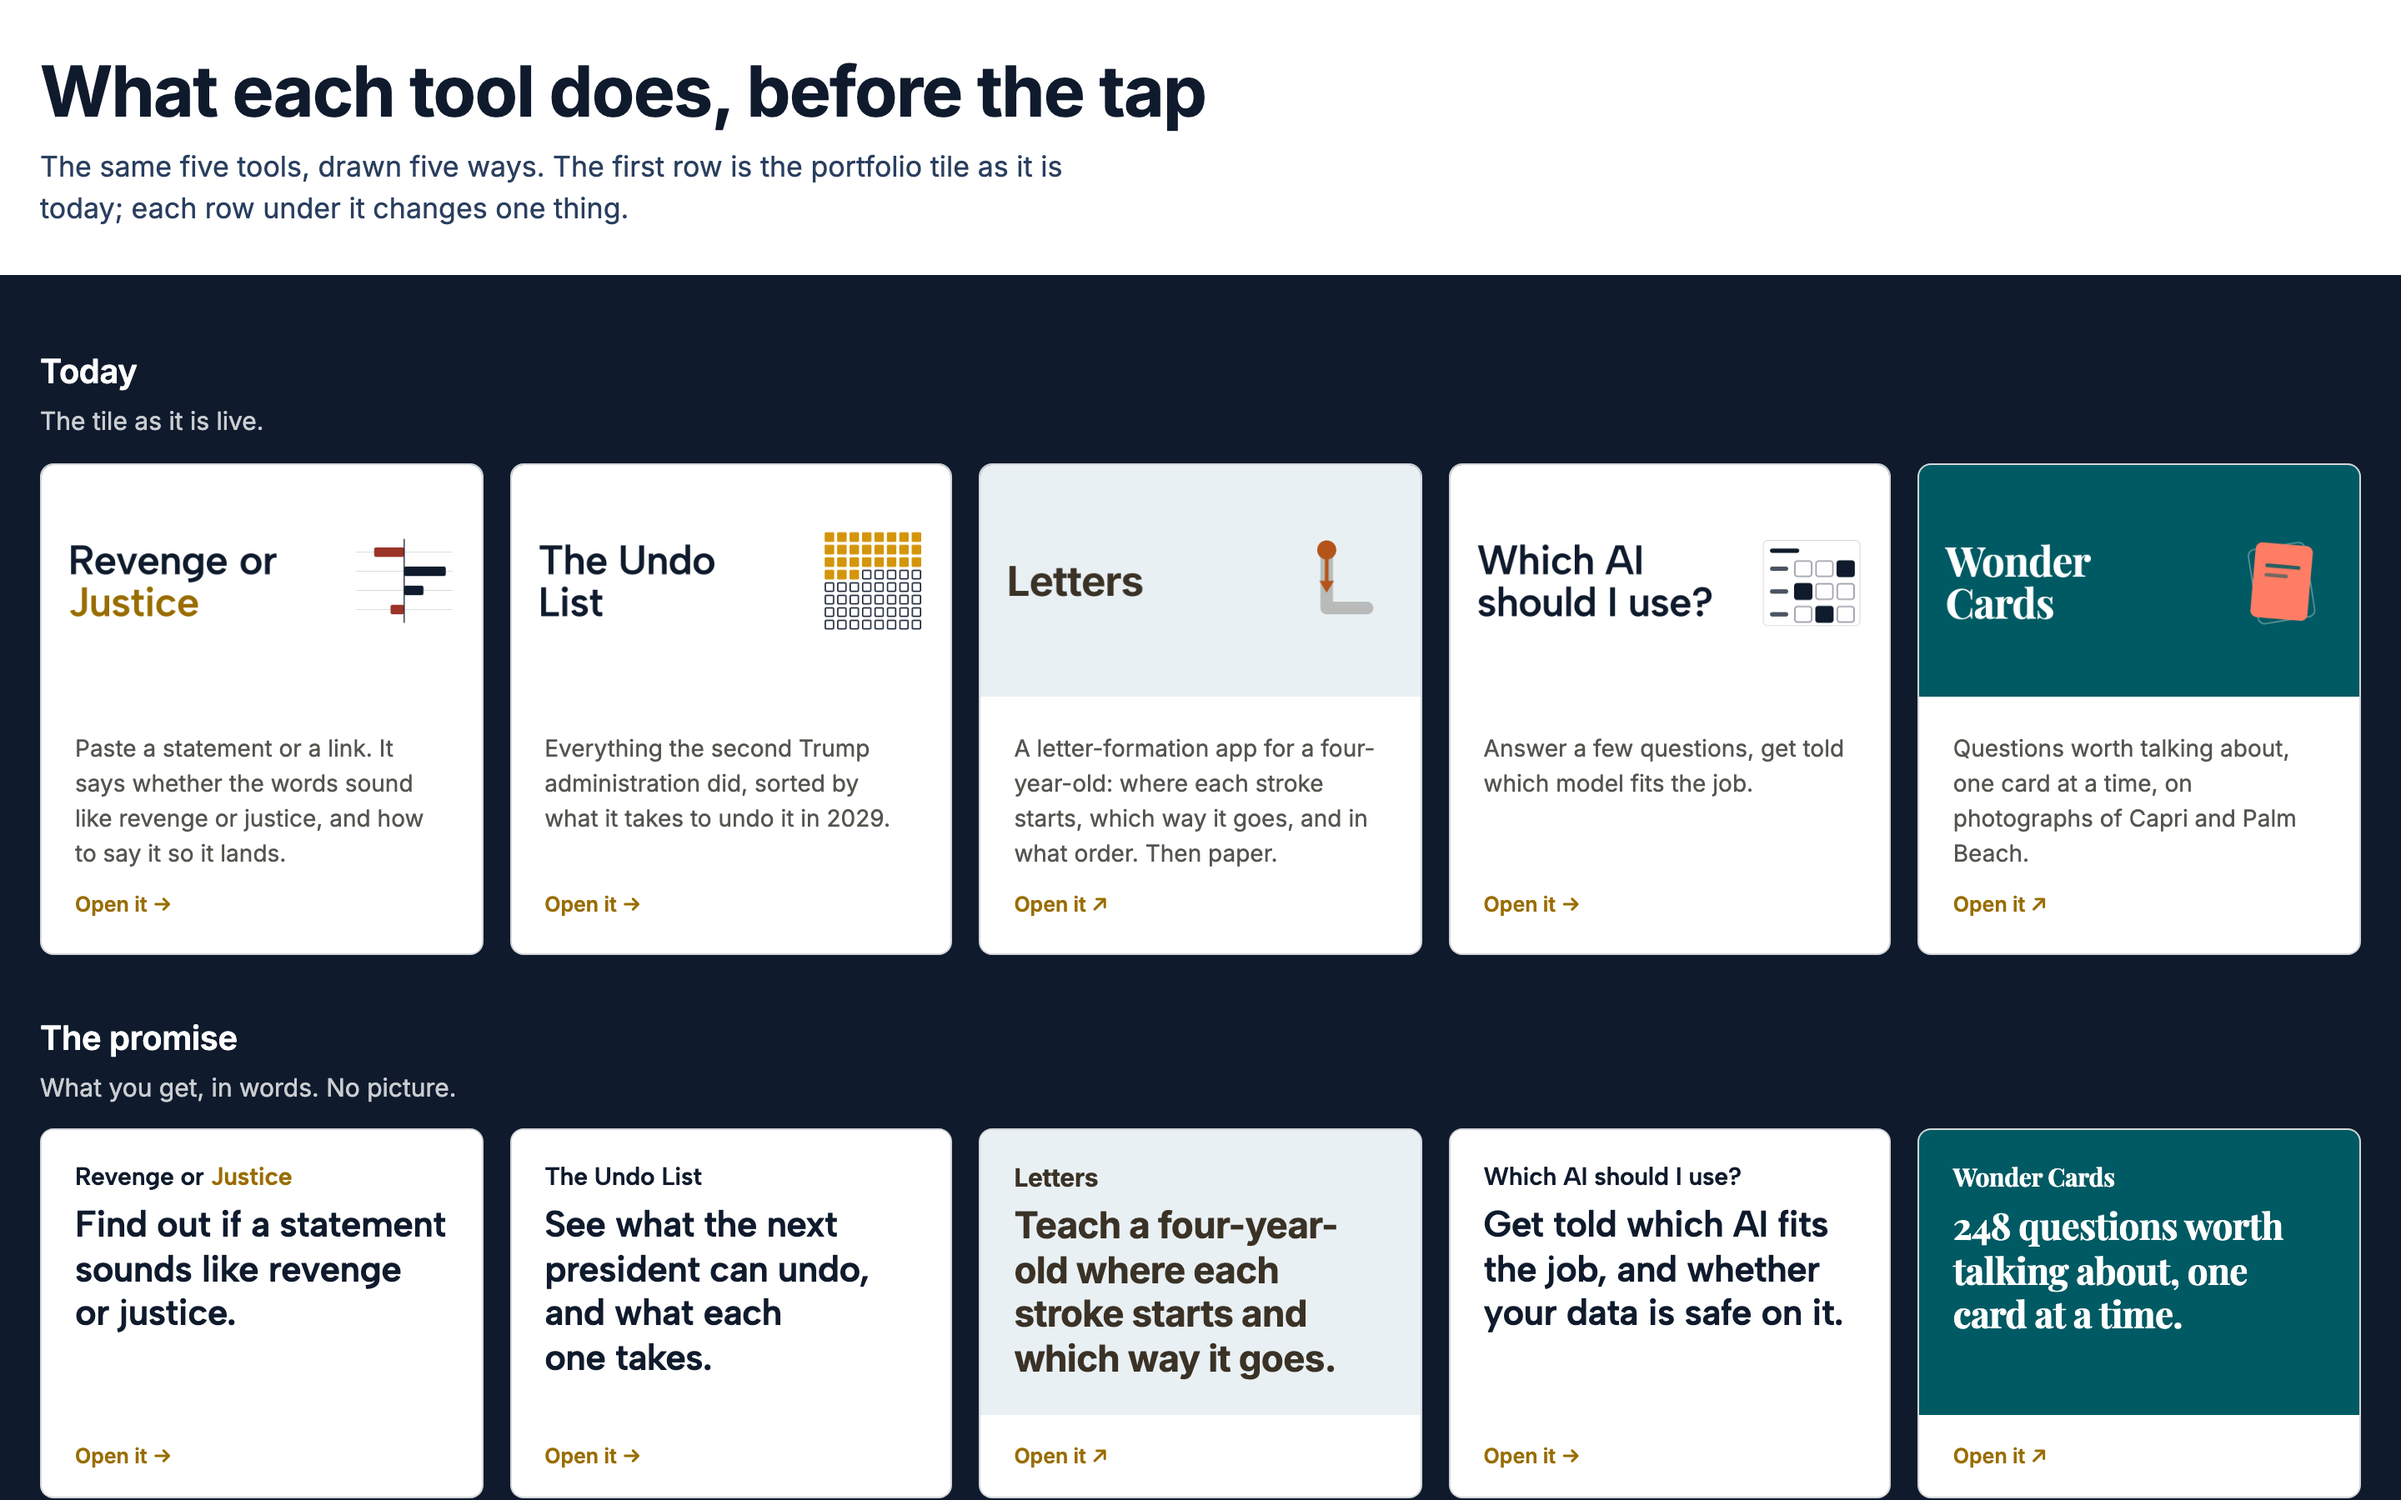
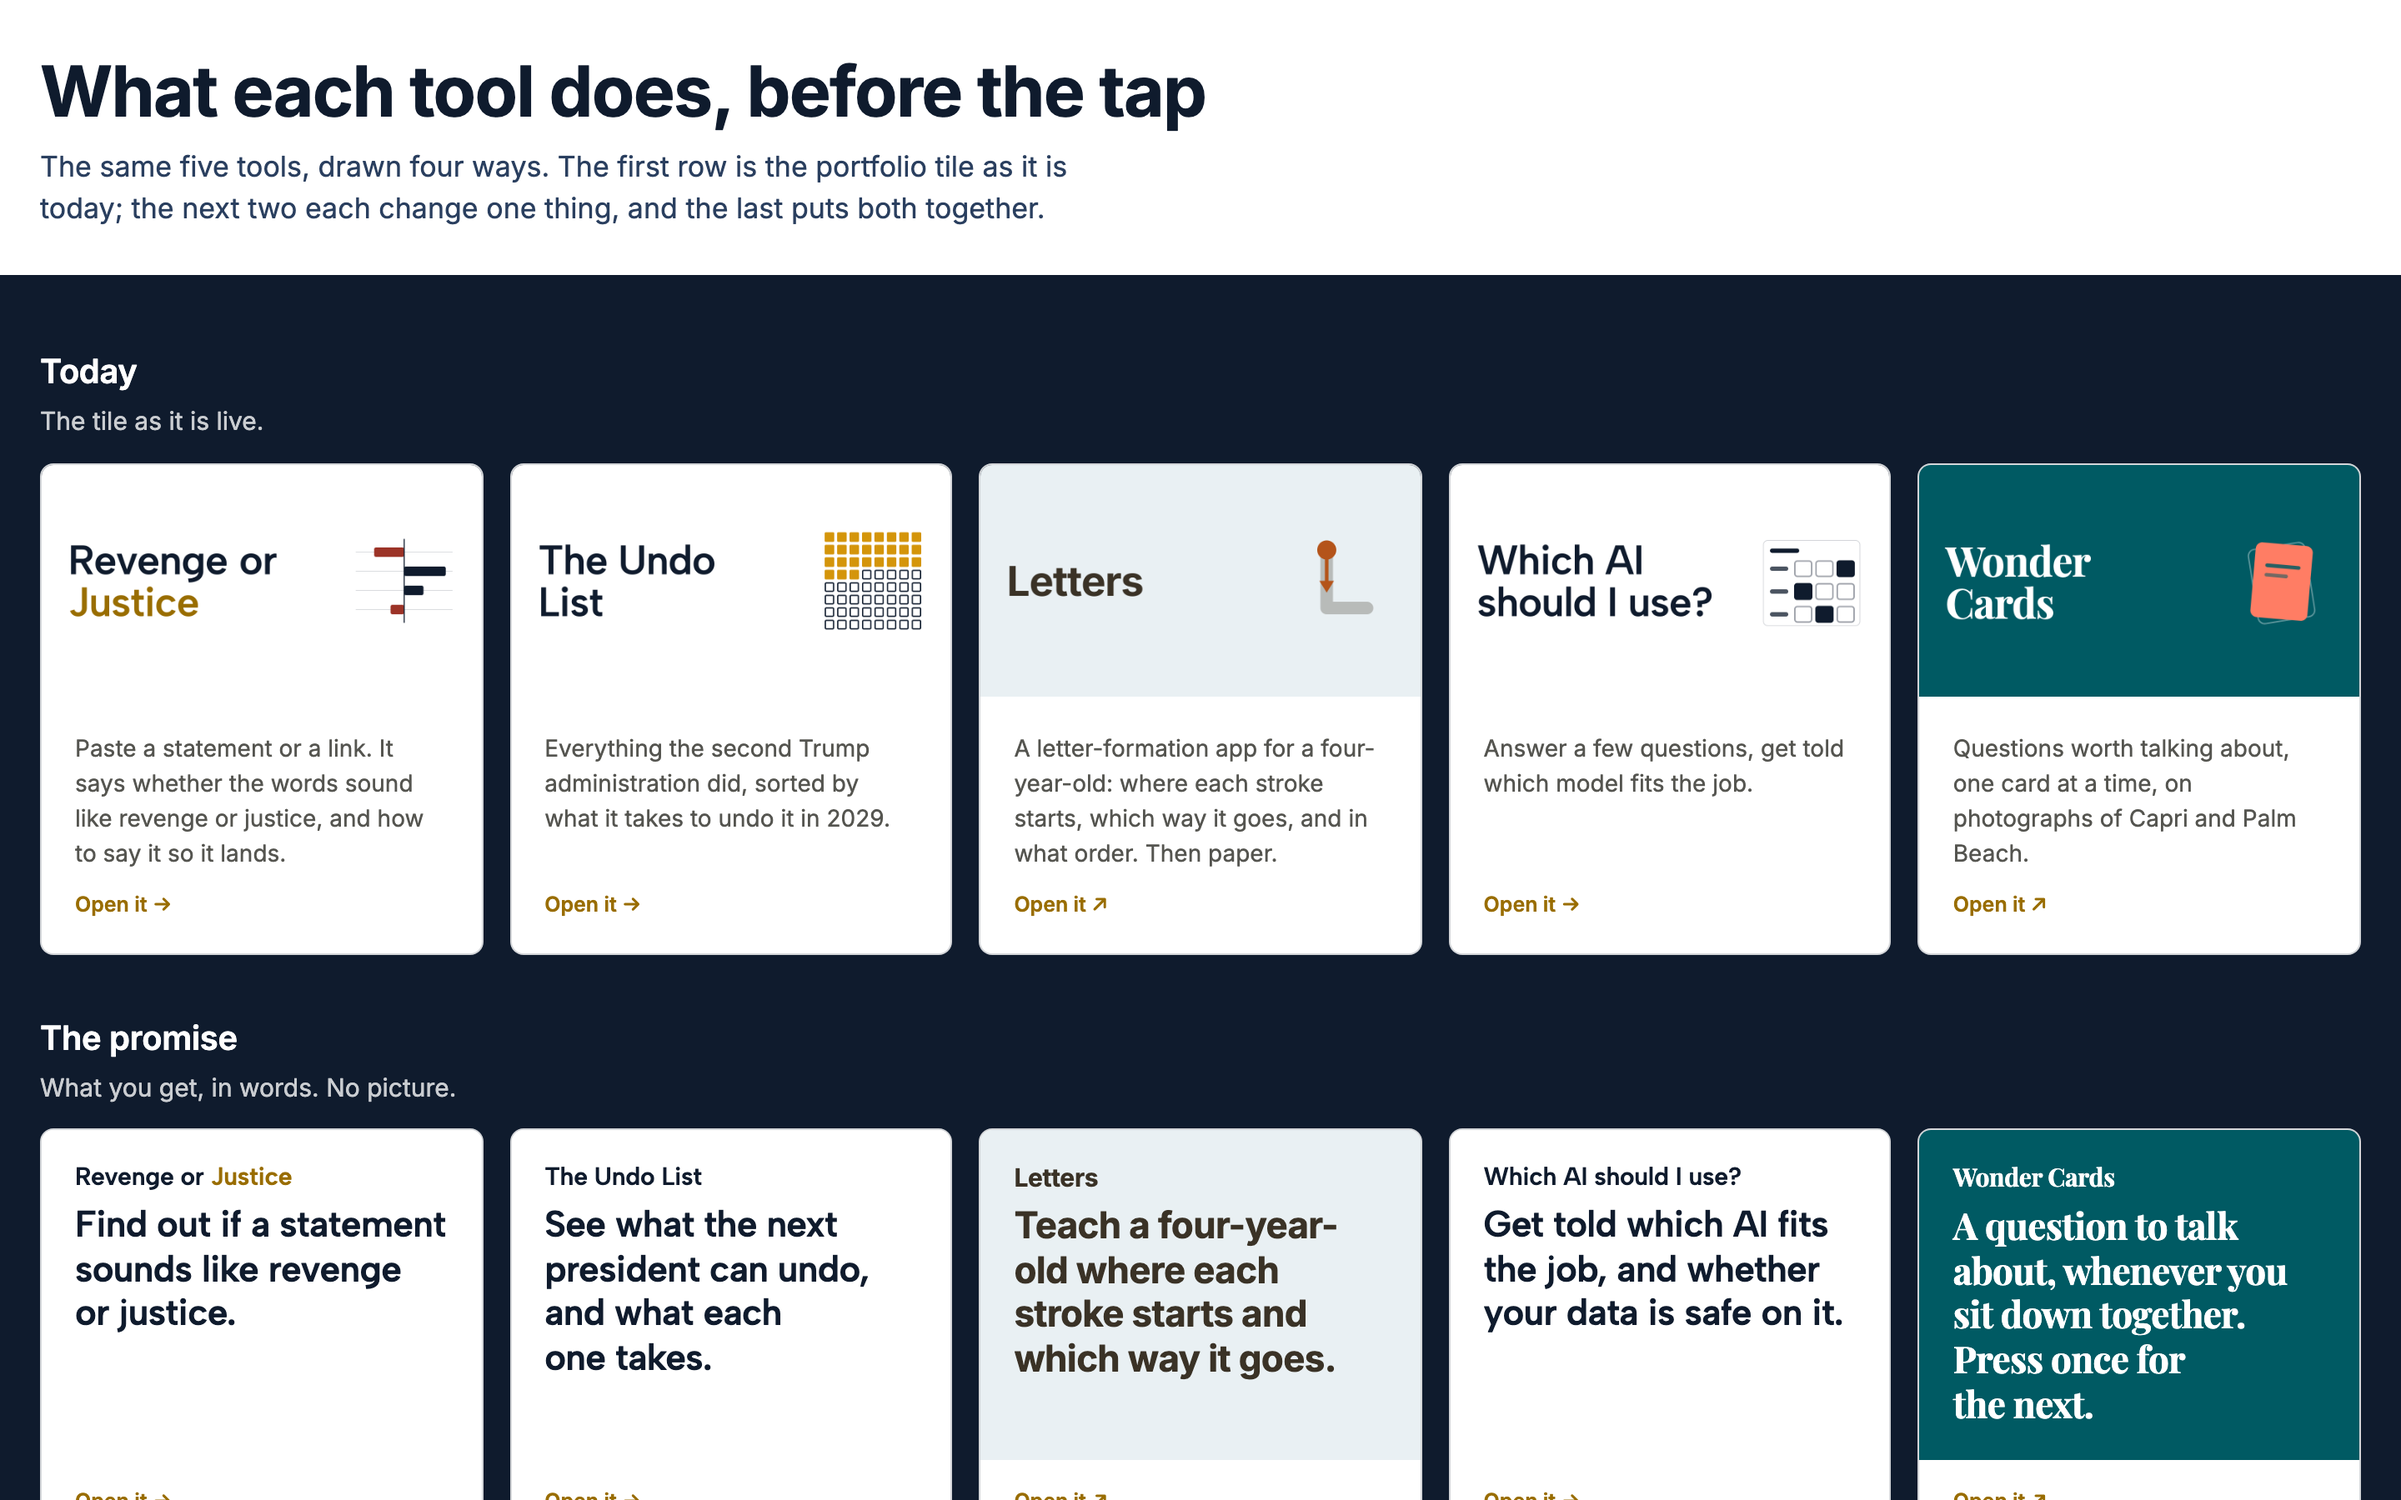
tile-value mockup, second pass on the review's six fixes
The first-move row is gone; its link words now sit on the proof plus the promise.
Letters shows the real app's H in three frames, strokes numbered 1, 2, 3.
Which AI is cut to the model's name and its one line; Revenge or Justice to
three bars under large Revenge and Justice ends. Wonder Cards' promise rewritten
from its own page; the last row's note says the description is gone.

Changed region(s): [[0.0, 0.8089, 1.0, 1.0], [0.0625, 0.0933, 0.4375, 0.1556]]

diff --git a/public/mockups/tile-value.html b/public/mockups/tile-value.html
@@ -5,9 +5,9 @@
 <meta name="viewport" content="width=device-width, initial-scale=1">
 <meta name="robots" content="noindex">
 <title>What each tool does, before the tap</title>
-<meta name="description" content="Five portfolio tiles drawn five ways: today's tile, the promise, the proof, the first move, and the proof plus the promise.">
+<meta name="description" content="Five portfolio tiles drawn four ways: today's tile, the promise, the proof, and the proof plus the promise.">
 <meta property="og:title" content="What each tool does, before the tap">
-<meta property="og:description" content="Five portfolio tiles drawn five ways, to pick how a tile says what its tool does.">
+<meta property="og:description" content="Five portfolio tiles drawn four ways, to pick how a tile says what its tool does.">
 <meta property="og:image" content="https://hoplight.ai/og.png">
 <meta name="twitter:card" content="summary_large_image">
 <meta name="apple-mobile-web-app-title" content="Tile value">
@@ -21,8 +21,8 @@
   do that artfully clearly and tastefully".
 
   The job: a stranger sees, before tapping, what each tool does for them. Five tools (Revenge or Justice,
-  The Undo List, Letters, Which AI should I use?, Wonder Cards), five rows: today's live tile and four
-  treatments, each changing one thing. Columns line up, so one tool stacks down the page and a row reads
+  The Undo List, Letters, Which AI should I use?, Wonder Cards), four rows: today's live tile and three
+  treatments (the promise, the proof, and both together; the first-move row was folded into the last). Columns line up, so one tool stacks down the page and a row reads
   as a whole portfolio.
 
   References borrowed (design/references/REFERENCES.md):
@@ -42,7 +42,7 @@
 
   Wireframe, 1440:
     What each tool does, before the tap
-    The same five tools, drawn five ways ...
+    The same five tools, drawn four ways ...
     [navy field                                                          ]
     [ Today  The live tile ...                                           ]
     [ [RoJ ] [Undo] [Letters] [Which AI] [Wonder]                        ]
@@ -53,8 +53,9 @@
   like the card-frames mockup; that is numbering on things that are not a sequence, so the rows carry
   their plain names. The question row (the brief's third proposal) was drafted and dropped: two of the
   five names are already questions (Revenge or Justice, Which AI should I use?) and Wonder Cards' whole
-  product is questions, so the row repeated the names. It is replaced by the first move (the link says
-  what you do first), a mechanism the drafting turned up.
+  product is questions, so the row repeated the names. A first-move row (the link names what you do
+  first) was drawn and then folded into the last row on review: on the today picture it could not be told
+  apart from today, so its link words now sit on the proof plus the promise, which is the candidate in full.
 
   Review by hand, 2026-11-07 (the visual-sociologist agent cannot be started from inside a lane): the
   provenance note under the lede went (machinery on a reading page; it lives in the lane report), every
@@ -140,9 +141,9 @@ h1 { font-size: clamp(28px, 1.2rem + 1.6vw, 42px); font-weight: 700; letter-spac
 <main>
   <div class="top">
     <h1>What each tool does, before the tap</h1>
-    <p class="lede">The same five tools, drawn five ways. The first row is the portfolio tile as it is today; each row under it changes one thing.</p>
+    <p class="lede">The same five tools, drawn four ways. The first row is the portfolio tile as it is today; the next two each change one thing, and the last puts both together.</p>
   </div>
-  <section class="field" aria-label="Five ways to draw a tile">
+  <section class="field" aria-label="Four ways to draw a tile">
     <div class="grid" id="grid"></div>
   </section>
 </main>
@@ -163,7 +164,7 @@ h1 { font-size: clamp(28px, 1.2rem + 1.6vw, 42px); font-weight: 700; letter-spac
       promise: 'Find out if a statement sounds like revenge or justice.',
       // Its page's first instruction: "Paste a statement or a link."
       move: 'Paste a statement',
-      proofAlt: 'A real reading from Revenge or Justice: five bars running left from the centre line toward Revenge.' },
+      proofAlt: 'A real reading from Revenge or Justice: three bars running left from the centre line toward Revenge, away from Justice.' },
     { slug: 'undo', name: 'The Undo List', plain: 'The Undo List', href: '/undo',
       face: ALBERT, w: 600, ink: NAVY, accent: NAVY, ground: WHITE, onground: NAVY, onaccent: NAVY,
       line: 'Everything the second Trump administration did, sorted by what it takes to undo it in 2029.',
@@ -179,7 +180,7 @@ h1 { font-size: clamp(28px, 1.2rem + 1.6vw, 42px); font-weight: 700; letter-spac
       promise: 'Teach a four-year-old where each stroke starts and which way it goes.',
       // Its first screen's button is "Start"; what follows is tracing (tools.ts: "letter-formation").
       move: 'Start tracing',
-      proofAlt: 'Letters: a T with its first stroke traced and the second stroke numbered 2 with an arrow.' },
+      proofAlt: 'Letters: the letter H three times, its strokes numbered 1, 2 and 3 in order, each with an arrow showing which way it goes.' },
     { slug: 'which-ai-should-i-use', name: 'Which AI should I use?', plain: 'Which AI should I use?', href: '/tools/which-ai',
       face: ALBERT, w: 600, ink: NAVY, accent: NAVY, ground: WHITE, onground: NAVY, onaccent: NAVY,
       line: 'Answer a few questions, get told which model fits the job.',
@@ -187,14 +188,15 @@ h1 { font-size: clamp(28px, 1.2rem + 1.6vw, 42px); font-weight: 700; letter-spac
       promise: 'Get told which AI fits the job, and whether your data is safe on it.',
       // Its tools.ts line: "Answer a few questions".
       move: 'Answer a few questions',
-      proofAlt: 'Which AI should I use?: a recommendation card naming Claude as best for nuanced, high-quality writing.' },
+      proofAlt: 'Which AI should I use?: its answer, Claude, best-in-class for nuanced, high-quality writing.' },
     { slug: 'wonder-cards', name: 'Wonder Cards', plain: 'Wonder Cards', href: 'https://wonder-cards.vercel.app', ext: true,
       face: PLAYFAIR, w: 700, ink: '#005A63', accent: '#005A63', ground: '#005A63', onground: WHITE, onaccent: WHITE,
       // Not on the tool list; written for this mockup from its page's description ("248 questions worth
       // talking about, one at a time, on sunlit poolside photographs, a Capri lemon grove").
       line: 'Questions worth talking about, one card at a time, on photographs of Capri and Palm Beach.',
-      // Its page's description: "248 questions worth talking about, one at a time".
-      promise: '248 questions worth talking about, one card at a time.',
+      // Its page: the card's label "A question to talk about"; the topic screen "Where shall we sit today?";
+      // its description "Press once for another card, or sit with a single topic".
+      promise: 'A question to talk about, whenever you sit down together. Press once for the next.',
       // Its card's main button: "Draw another card".
       move: 'Draw a card',
       proofAlt: 'Wonder Cards: a card from the Screen topic asking What do you watch now that would have shocked you at twenty?' },
@@ -207,10 +209,8 @@ h1 { font-size: clamp(28px, 1.2rem + 1.6vw, 42px); font-weight: 700; letter-spac
       note: 'What you get, in words. No picture.' },
     { key: 'proof', title: 'The proof',
       note: 'A real screen from the tool replaces the drawn mark.' },
-    { key: 'move', title: 'The first move',
-      note: 'The link names your first step.' },
     { key: 'both', title: 'The proof plus the promise',
-      note: 'The real screen and the promise. The line goes.' },
+      note: 'The real screen and the promise; the description is gone.' },
   ];
 
   function esc(s) { return s.replace(/&/g, '&amp;').replace(/</g, '&lt;').replace(/>/g, '&gt;').replace(/"/g, '&quot;'); }
@@ -241,10 +241,7 @@ h1 { font-size: clamp(28px, 1.2rem + 1.6vw, 42px); font-weight: 700; letter-spac
     if (row === 'proof') {
       return open(t, 'proof') + proof(t) + '<div class="body"><h3 class="nm">' + t.name + '</h3><p class="line">' + esc(t.line) + '</p>' + go(t, 'Open it') + '</div></a>';
     }
-    if (row === 'move') {
-      return open(t, 'card') + today(t) + '<div class="body"><h3 class="sr">' + esc(t.plain) + '</h3><p class="line">' + esc(t.line) + '</p>' + go(t, t.move) + '</div></a>';
-    }
-    return open(t, 'both') + proof(t) + '<div class="body"><h3 class="nm">' + t.name + '</h3><p class="pr">' + esc(t.promise) + '</p>' + go(t, 'Open it') + '</div></a>';
+    return open(t, 'both') + proof(t) + '<div class="body"><h3 class="nm">' + t.name + '</h3><p class="pr">' + esc(t.promise) + '</p>' + go(t, t.move) + '</div></a>';
   }
 
   var html = '';

diff --git a/docs/renders/tilevalue1-2026-11-07/crops.py b/docs/renders/tilevalue1-2026-11-07/crops.py
@@ -24,18 +24,32 @@ def fit(im, ground):
 def crop(name, box):
     return Image.open(f'{raw}/{name}').convert('RGB').crop(box)
 
+def strip(names, box, ground, gap):
+    """Real frames of one screen side by side, each cut to the same box, a gap of ground between."""
+    ims = [crop(n, box) for n in names]
+    w = sum(i.width for i in ims) + gap * (len(ims) + 1)
+    canvas = Image.new('RGB', (w, ims[0].height + gap), ground)
+    x = gap
+    for i in ims:
+        canvas.paste(i, (x, gap // 2)); x += i.width + gap
+    return canvas
+
 # Each box is in the capture's own pixels (520 wide at 3x, The Undo List 1440 wide at 2x).
 jobs = [
-    # Revenge or Justice: one real reading (the Times of India Raskin article, 2026-11-07), its five
-    # readings as bars out from the centre line, under the Revenge and Justice ends.
-    ('proof-revenge-or-justice.png', crop('rj-hero.png', (0, 830, 1464, 1740)), '#FFFFFF'),
+    # Revenge or Justice: one real reading (the Times of India Raskin article, 2026-11-07), cut to the
+    # Revenge and Justice ends and its first three bars out from the centre line; the row names and
+    # scores are left off so the ends read large at phone size.
+    ('proof-revenge-or-justice.png', crop('rj-hero.png', (355, 835, 1345, 1345)), '#FFFFFF'),
     # The Undo List: the headline, its sentence and button, and the first row of blocks, the first one
     # signed and gold. Cut to the left side of its 1440 layout so the headline reads at phone size.
     ('proof-undo.png', crop('undo-full.png', (336, 336, 1784, 1100)), '#FFFFFF'),
-    # Letters: the first stroke traced, the second numbered with its arrow, in the app's blue ground.
-    ('proof-letters.png', crop('letters-full.png', (80, 560, 1480, 2440)), '#E9F0F3'),
-    # Which AI should I use?: the recommendation a writer handling confidential material gets.
-    ('proof-which-ai-should-i-use.png', crop('whichai-full.png', (75, 426, 1485, 1176)), '#FFFFFF'),
+    # Letters: the letter H, three real frames of the app's glyph in its blue ground, one before each
+    # stroke: stroke 1 numbered on the pale letter, then 2 with the first in ink, then 3 with both.
+    ('proof-letters.png', strip(['letters-h-1.png', 'letters-h-2.png', 'letters-h-3.png'],
+                                (0, 440, 1460, 2010), '#E9F0F3', 280), '#E9F0F3'),
+    # Which AI should I use?: the recommendation a writer handling confidential material gets, cut to
+    # the model's name and its one line.
+    ('proof-which-ai-should-i-use.png', crop('whichai-full.png', (140, 645, 1210, 870)), '#FFFFFF'),
     # Wonder Cards: one card from the Screen topic, its photograph's edge, the awning and the question.
     ('proof-wonder-cards.jpg', crop('wonder-full.png', (0, 1605, 1560, 2425)), '#005A63'),
 ]
